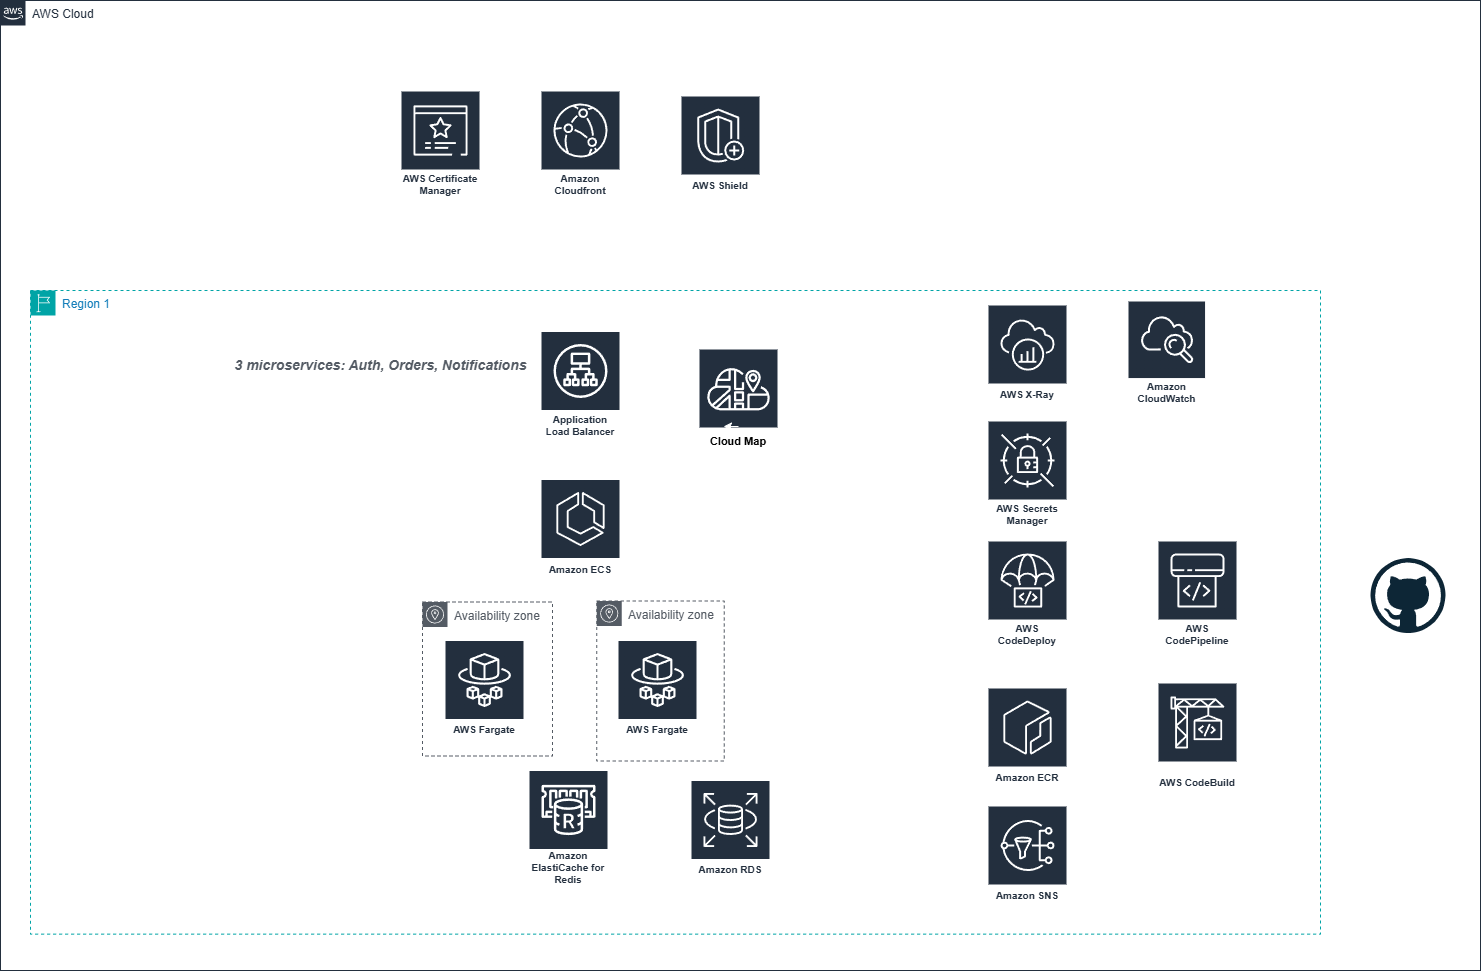
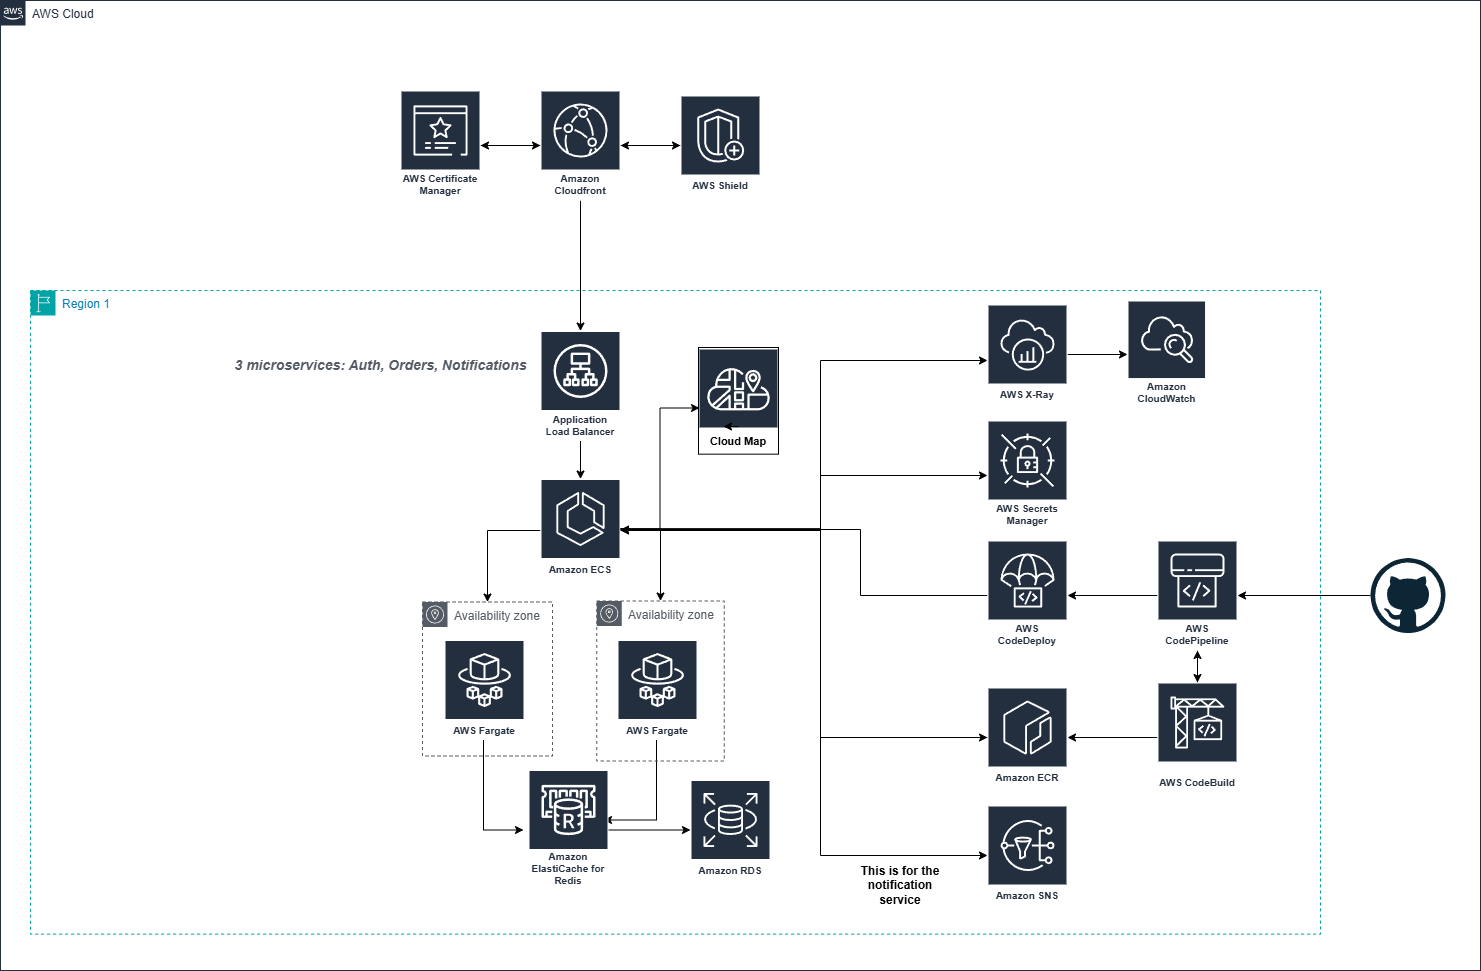
update the readme content and the overview image

diff --git a/README.md b/README.md
@@ -28,7 +28,43 @@ This is a training personal project with objective of migrate a monolithic Node.
 this section is for the details of each aspect used in the over view diagram but in more details
 
 #### Security
+![Edge Security diagram](./imgs/edge-security.png)
+
+- Edge protection: AWS Certificate Manager issues the TLS certificate used by CloudFront, and AWS Shield provides DDoS protection at the edge before traffic ever reaches the VPC.
+- Network segmentation: the ALB sits in public subnets with a security group that only allows inbound 443 from the internet. Each of the three services (Auth, Orders, Notifications) runs in private subnets with a security group that only accepts traffic from the ALB's security group on the task's listener port — no service is reachable directly from the internet.
+- Least-privilege IAM: each ECS task uses two separate IAM roles — a task execution role (used by the ECS agent to pull images from ECR, fetch secrets, and write logs) and a task role (used by the application code at runtime to call other AWS services, e.g. publishing to SNS). Keeping these separate avoids over-granting permissions to application code.
+- Secrets management: database credentials and third-party API keys are stored in AWS Secrets Manager and injected into the container at task startup via the execution role — nothing is hardcoded or baked into the image.
+- Image integrity: Amazon ECR has vulnerability scanning on push enabled, so images with known CVEs are flagged before they can be deployed.
+- Encryption: RDS is encrypted at rest with KMS, and ElastiCache Redis has both in-transit and at-rest encryption enabled, since it's shared session storage across all three services.
+![Edge Security diagram](./imgs/RDS-security.png)
+
 #### Pipeline Flow
+![Pipeline Diagram](./imgs/pipeline.png)
+
+CI/CD is built around CodePipeline with an ECS blue/green deployment through CodeDeploy:
+
+- A push to GitHub triggers AWS CodePipeline.
+- AWS CodeBuild builds the Docker image, runs the test suite, and pushes the image to Amazon ECR (where it's also scanned for vulnerabilities).
+- AWS CodeDeploy takes over the ECS deployment using the blue/green strategy:
+    - The current live task set (BLUE) keeps serving 100% of production traffic on the ALB's production listener.
+    - The new task set (GREEN) is deployed alongside it and registered to a test listener, so it can be validated before receiving real traffic.
+    - CloudWatch Alarms (5xx error rate, latency, CPU/memory) watch the GREEN task set during a bake-time window.
+    - If the alarms stay healthy, CodeDeploy shifts production traffic from BLUE to GREEN and drains/terminates the old BLUE tasks.
+    - If any alarm trips, CodeDeploy automatically rolls back: production traffic stays on (or reverts to) BLUE, the GREEN task set is terminated, and an SNS topic notifies the on-call channel of the failed deployment.
+
+This gives zero-downtime deploys with an automatic safety net, rather than relying on manual rollback.
 #### Monitoring Flow
+- AWS X-Ray is instrumented in all three services (Auth, Orders, Notifications), so a single request can be traced end-to-end across service boundaries. X-Ray builds a service map, making it easy to spot which service is introducing latency or errors in a call chain.
+- CloudWatch Logs collects application and access logs from each service; CloudWatch Metrics/Dashboards aggregate CPU, memory, request count, and error rate per service.
+- CloudWatch Alarms are set on the key health metrics. When triggered, they publish to an SNS "Ops Alerts" topic, which is intentionally kept separate from the application-level Notifications-service SNS topic to avoid mixing operational alerts with user-facing notification events.
+- The same alarms also feed into CodeDeploy, gating blue/green traffic shifts and triggering automatic rollback (see Pipeline Flow) — so monitoring isn't just passive dashboards, it's directly wired into deployment safety.
 #### Reliability
+- Multi-AZ compute: all three services run Fargate tasks across two Availability Zones, so the loss of a single AZ doesn't take a service down. ECS Service Auto Scaling uses target-tracking (CPU/memory) to scale tasks in and out, and the ALB's health checks automatically stop - routing to unhealthy tasks and let ECS replace them.
+Multi-AZ data tier: Amazon RDS runs in Multi-AZ mode with a synchronously-replicated standby, enabling automatic failover. ElastiCache for Redis runs as a replication group (primary + replica across AZs) with automatic failover for the shared session cache.
+- Deployment safety net: CodeDeploy's blue/green rollout with CloudWatch-alarm-gated automatic rollback (see Pipeline Flow) prevents a bad deploy from becoming an outage.
+- No server management overhead: since everything runs on Fargate, there's no EC2 patching, capacity planning, or cluster scaling to manage directly — AWS handles the underlying compute lifecycle, which keeps operational effort low (per the project's constraint).
 ### Networking layer
+- Public subnets (one per AZ) host the Application Load Balancer and a NAT Gateway. An Internet Gateway attached to the VPC gives the public subnets internet reachability, and CloudFront sits in front of the ALB at the edge.
+- Private subnets (one per AZ) host the ECS Fargate tasks for all three services, along with RDS and ElastiCache — none of these are directly internet-routable.
+- Egress from private subnets (e.g., pulling container images, calling third-party APIs) goes out through the NAT Gateway in the same AZ, keeping the compute and data tier off the public internet while still allowing outbound calls.
+- Each subnet tier has its own route table: public subnets route `0.0.0.0/0` to the Internet Gateway, private subnets route `0.0.0.0/0` to the NAT Gateway in the same AZ.
